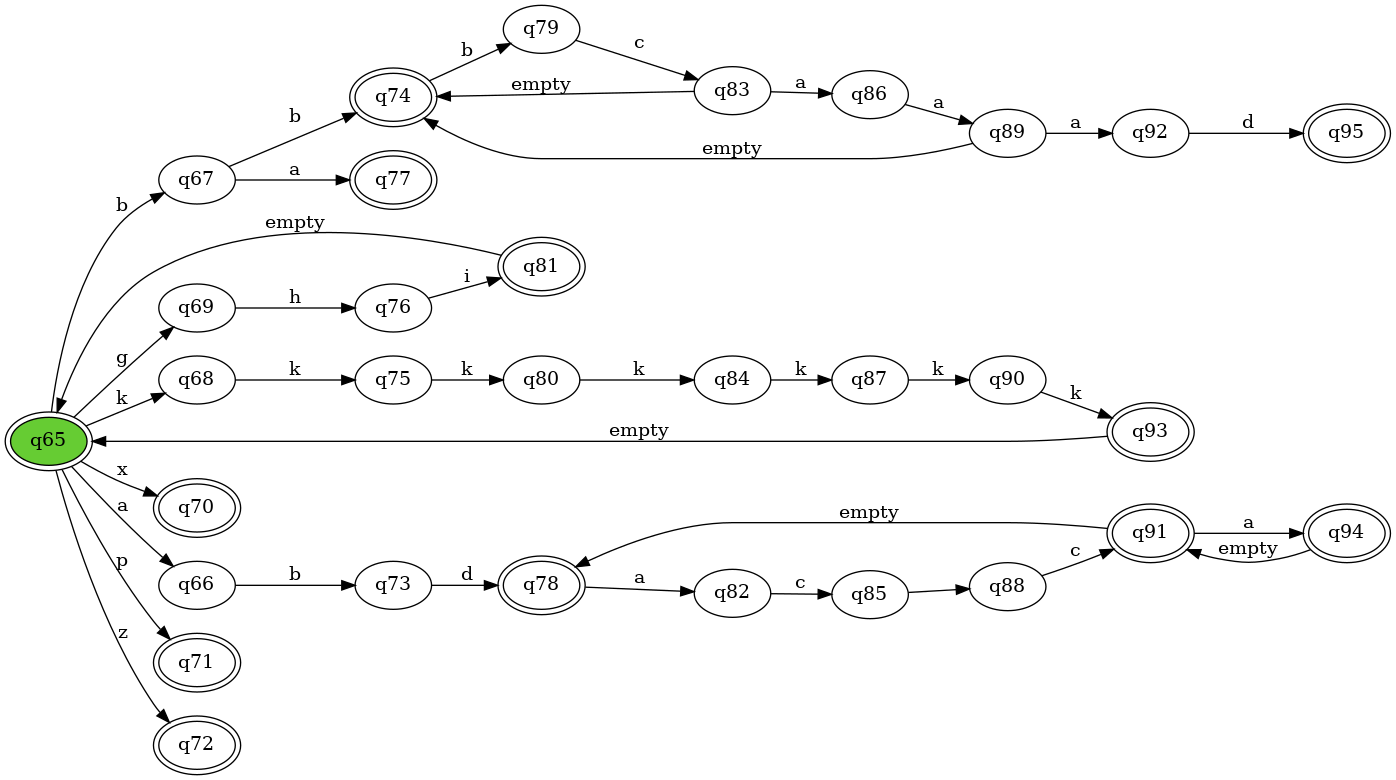
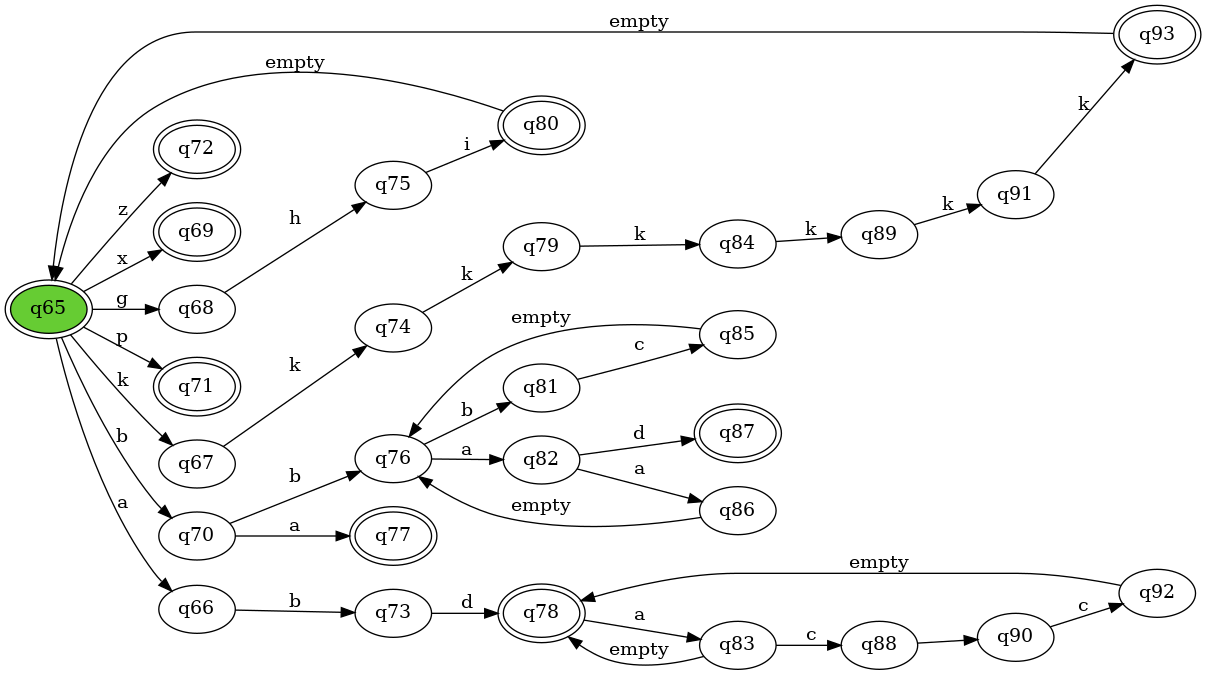
fix path and starting to fix removeEmpty

diff --git a/automaton_generation.py b/automaton_generation.py
@@ -29,15 +29,20 @@ def removeEmpty(automaton) -> automaton:
 
         del(loopFinish.transitions["empty"])
 
-        #Find out which word is built in loop
-        loopWord = automaton.findPath(loopStart, loopFinish)
-
-
+        #Find out which word is built in
+        loopWord = automaton.findPath(loopStart, loopFinish, loopStart)
+        iterationWord = automaton.findFakePath(loopStart, loopFinish) #Path including symbols from other loops
+    
         symbolCount = 0
 
         #If possible, the back transition would need to have the same symbol as the start of the loop
         transitionSymbol = loopWord[symbolCount]
+        
+        #Just first symbol from fakePath
+        if loopWord != iterationWord : loopStart = loopStart.transitions[iterationWord[0]].target
+        
         loopStart = loopStart.transitions[transitionSymbol].target
+
 
         while loopFinish.hasTransition(transitionSymbol):
             #If this state has an transition with the symbol equal to transition symbol, we need to advance one state and try again
@@ -238,36 +243,8 @@ def unionProcess(automatons : list) -> automaton:
     return union
 
 def concat(a, b, finalAStates):
+    pass
   
-
-
-def postProcessPath(pathAutomaton) -> automaton:
-    global count
-    pathAutomaton.showVisualDFA("./a" + str(count) +'.png')
-    count += 1
-    
-    original = copy.deepcopy(pathAutomaton)
-    cycles = pathAutomaton.findPathCycles()
-
-    for i in cycles:
-      finishState = i[1]
-      startState = i[0]
-
-      
-      for j in finishState.transitions:
-        attemptedState = startState
-        attemptedTransition = j
-        targetState = finishState.transitions[j].target
-
-        #Finish
-        if attemptedTransition != "empty":
-          while attemptedTransition in attemptedState.transitions:
-            #Go to next state
-            attemptedState = attemptedState.transitions[j].target
-            if attemptedTransition in targetState.transitions:
-              pass
-
-
 
 
 #No 'or' operator in this regex
@@ -289,54 +266,39 @@ def path(regex : str) -> automaton:
     
     #Notifies number of '(' operations to be handled (i.e add state to 'groupStateStack' line 136) 
     openGroup = 0
+
+    #For other operation
+    openParentheses = 0
+
+    cutOperationsList = []
     
     i = 0
     while i < len(regex):
         realSymbol = regex[i]
-        separatePath = False
+        # separatePath = False
         
         if realSymbol == "(":
             openGroup += 1
-        
-        if separatePath:
-          separatePath = False
-          newStatePath = state(False, {})
-          newPathTransition = transition(newStatePath, realSymbol, lastState)
-
-          #Go to next state and try again
-          while realSymbol in lastState.transitions:
-            lastState = lastState.transitions[realSymbol].target
-            #Advance one symbol as well
-            i += 1
-            realSymbol = regex[i]
-
-          lastState.transitions[realSymbol] = newPathTransition
-          a.transitionsList.append(newPathTransition)
-          
-          lastState = newPathTransition
+            openParentheses += 1
 
         #Handle Group Closure
         if realSymbol == ")":
+            openParentheses += -1
+
             startGroupState = groupStateStack.pop()
             #Not last
             if i < len(regex) - 1:
                 if regex[i + 1] == "*":
-                    startGroupState.final = True
-
                     #Add transition to go back to starting group state
                     backTransition = transition(startGroupState, "empty", lastState)
                     a.transitionsList.append(backTransition)
                     lastState.transitions["empty"] = backTransition
 
-                    #Fix *
-                    separatePath = True
-                    lastPath = startGroupState
-                    
+                    #Reset last state
+                    lastState = startGroupState
 
                     if i + 1 == len(regex) - 1:
                         lastState.final = True
-
-                #"empty" symbol needs to be interpreted in run as using this transition only if there is no other, then it doesn't read any symbol
                 
                 #Exists other symbols
                 if i < len(regex) - 2:
@@ -346,25 +308,28 @@ def path(regex : str) -> automaton:
         if realSymbol not in operators:
             #If there is no more characters left, this is an final state
             newState = state(not (i + 1 < len(regex)), {})
-            
-            newTransition = transition(newState, realSymbol, lastState)
-            a.transitionsList.append(newTransition)
-            lastState.transitions[realSymbol] = newTransition
 
             #Handle '('
             while openGroup:
                 groupStateStack.append(lastState)
                 openGroup += -1
+            
+            #Could happen in case of finished ()*
+            if realSymbol in lastState.transitions:
+                lastState = lastState.transitions[realSymbol].target
+            else:
+                newTransition = transition(newState, realSymbol, lastState)
+                a.transitionsList.append(newTransition)
+                lastState.transitions[realSymbol] = newTransition
+                
+                #Add to automaton list of states
+                a.states.append(newState)
+                a.statesDict[newState.name] = newState
 
-            #Add to automaton list of states
-            a.states.append(newState)
-            a.statesDict[newState.name] = newState
-
-            lastState = newState
+                lastState = newState
         
         i += 1
 
-    postProcessPath(a)
     return a
 
 #This function will build an tree informing which operations and in which onder we need to do, to construct the automaton
@@ -516,6 +481,7 @@ old = "((abd(ac c)*(a)*)|(bb((bc)*aa)*ad)|(ba)|((x)|(((ghi)|(kkkkkkk))*))|((p)|(
 testTree = regexTree([], [])
 buildRegexTree(old, testTree)
 testTree.value = old
+testTree.treePrint()
 
 testAutomaton = genFinalAutomaton(testTree)
 removeEmpty(testAutomaton)

diff --git a/definitions.py b/definitions.py
@@ -113,17 +113,48 @@ class automaton():
         return list(filter(lambda t: t.symbol == symbol, self.transitionsList))
     
 
-    def findPathAux(self, origin, target, lastSymbol, calledStates):
+    def findPathAux(self, origin, target, lastSymbol, calledStates, startLoop):
         calledStates.append(origin)
+        noLastSymbol = False
+        pathWord = ""
+
+        #Other loop
+        for i in origin.transitions:
+            if origin.transitions[i].target == startLoop or origin.transitions[i].target == origin:
+                noLastSymbol = True
+
         #State Found
         if origin == target:
             return lastSymbol
         
-        pathWord = ""
         for t in origin.transitions:
             #Does not take empty transitions, cycles, we just want the path 
             if t != "empty" and origin.transitions[t].target not in calledStates: 
-                nextWord = self.findPathAux(origin.transitions[t].target, target, t, calledStates)
+                nextWord = self.findPathAux(origin.transitions[t].target, target, t, calledStates, startLoop)
+
+                if nextWord != "":
+                    if not noLastSymbol: pathWord += lastSymbol + nextWord
+                    else: pathWord += nextWord
+                    break
+                
+        return pathWord
+    
+    #Find which transitions should take to go to one state to another
+    def findPath(self, origin, target, startLoop):
+        return self.findPathAux(origin, target, "", [], startLoop)
+
+    def findFakePathAux(self, origin, target, lastSymbol, calledStates):
+        calledStates.append(origin)
+        pathWord = ""
+
+        #State Found
+        if origin == target:
+            return lastSymbol
+        
+        for t in origin.transitions:
+            #Does not take empty transitions, cycles, we just want the path 
+            if t != "empty" and origin.transitions[t].target not in calledStates: 
+                nextWord = self.findFakePathAux(origin.transitions[t].target, target, t, calledStates)
 
                 if nextWord != "":
                     pathWord += lastSymbol + nextWord
@@ -131,9 +162,8 @@ class automaton():
                 
         return pathWord
     
-    #Find which transitions should take to go to one state to another
-    def findPath(self, origin, target):
-        return self.findPathAux(origin, target, "", [])
+    def findFakePath(self, origin, target):
+        return self.findFakePathAux(origin, target, "", [])
 
     def depth(self):
         return self.depthAux(self.initialState, [])
